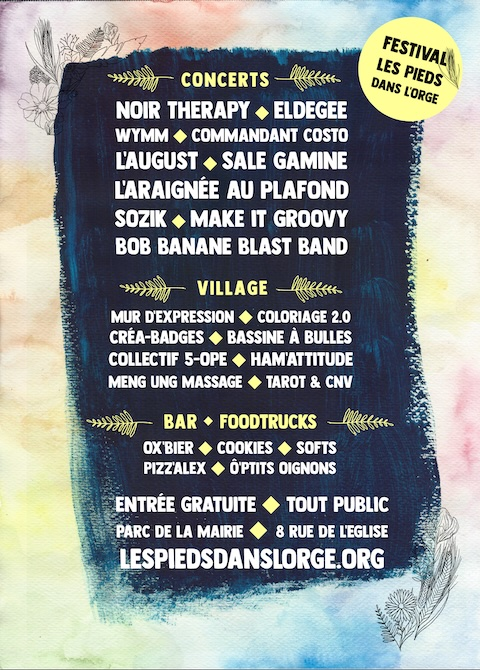
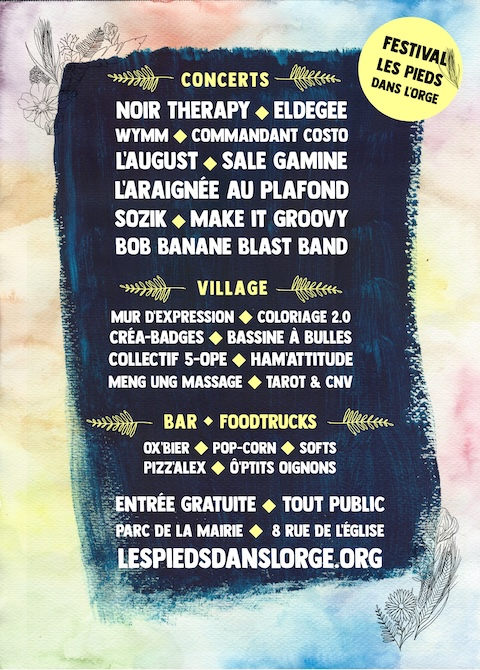
maj 2026

diff --git a/public/index.html b/public/index.html
@@ -16,7 +16,7 @@
     <meta property="og:image" content="https://lespiedsdanslorge.org/img/affiches/2026/affiche-recto.jpg">
     <link rel="stylesheet" href="/library/bootstrap@5.3.8/bootstrap.min.css">
     <link rel="stylesheet" href="/library/glightbox@3.3.0/glightbox.min.css">
-    <link rel="stylesheet" href="/css/app.css?20260503">
+    <link rel="stylesheet" href="/css/app.css?20260511">
 </head>
 
 <body>
@@ -99,13 +99,13 @@
             <h3 id="village">Village</h3>
             <div id="village-content"></div>
 
-            <h3 id="bar-foodtrucks">Bar / Foodtrucks</h3>
-            <ul>
-              <li><strong>BUVETTE</strong> : Bierre Pression (<a href="https://brasserie-ox.fr">Ox’Bier, brasserie artisanale de Marcoussis</a>), Softs au verre, Cookies</li>
-              <li><strong><a href="https://www.facebook.com/opofood">Ô’PTITS OIGNONS</a>:</strong> Burgers frais, street food</li>
-              <li><strong><a href="https://www.camion-pizzalex.fr">Pizz’Alex</a></strong> : Restauration Pizzas</li>
-            </ul>
+            <h3 id="restauration">Restauration</h3>
+            <div id="restauration-content"></div>
 
+        </section>
+
+        <section id="photos">
+            <h2 id="gallery">Photos & Vidéos</h2>
             <div id="gallery-content"></div>
         </section>
 
@@ -129,8 +129,8 @@
             <p>C’est plus long ...</p>
             <h3><span>Plan du site</span></h3>
             <div class="text-center">
-                <a class="glightbox" href="/img/plan-du-site-2026.svg?20260304">
-                  <img class="d-inline-block px-3 py-3 bg-white" src="/img/plan-du-site-2026.svg?20260304" alt="Plan du site 2026" />
+                <a href="/img/plan-du-site-2026.png?20260511">
+                  <img class="d-inline-block px-3 py-3 bg-white" src="/img/plan-du-site-2026.png?20260511" alt="Plan du site 2026" />
                 </a>
             </div>
         </section>
@@ -140,9 +140,10 @@
             <p>Cet événement ne pourrait pas se dérouler sans nos partenaires:</p>
             <ul>
               <li>La <a href="http://www.ville-epinay-sur-orge.fr"><strong>Mairie d’Épinay-sur-Orge</strong></a> bien sur, qui nous prête pour l’occasion ce magnifique lieu connu des spinoliens pour accueillir la fête des Brandous. </li>
-              <li>La <a href="https://www.facebook.com/clubadosPAJ.VSO/"><strong>PAJ de Villemoisson sur Orge</strong></a>, grands organisateurs du <a href="https://fetestival.fr">Fet’Estival</a> depuis plus de 15 ans, et qui nous offrent leur précieuse aide technique et logistique.</li>
+              <li>La <a href="https://www.facebook.com/clubadosPAJ.VSO/"><strong>PAJ de Villemoisson sur Orge</strong></a>, grands organisateurs du <a href="https://fetestival.fr"><strong>Fet’Estival</strong></a> depuis plus de 15 ans, et qui nous offrent leur précieuse aide technique et logistique.</li>
               <li>L’association <a href="https://www.villemoisson-en-fete.com"><strong>Villemoisson En Fête</strong></a>, pour le soutien logistique</li>
               <li>La <a href="https://www.mjcvillebon.org"><strong>MJC Boby Lapointe</strong></a> de Villebon-sur-Yvette qui soutient nos actions depuis près de 5 ans</li>
+              <li><a href="https://www.lavilledubois.fr"><strong>La Ville du Bois</strong></a> et l’association <a href="https://www.lavilledubois.fr/liste-des-associations/87-culture/149"><strong>Music’All du Bois</strong></a></li>
             </ul>
         </section>
 
@@ -177,7 +178,7 @@
     <script src="/library/jquery@3.7.1/jquery.min.js"></script>
     <script src="/library/glightbox@3.3.0/glightbox.min.js"></script>
     <script src="/library/bootstrap@5.3.8/bootstrap.bundle.min.js"></script>
-    <script src="/js/app.mjs?20260503" type="module"></script>
+    <script src="/js/app.mjs?20260511" type="module"></script>
 </body>
 
 </html>

diff --git a/public/css/app.css b/public/css/app.css
@@ -29,6 +29,10 @@ body {
     padding-top: 2rem; /* taille du header fixe */
 }
 
+a {
+    color: var(--color-medium-blue);
+}
+
 /**
  * Barre du haut + menu
  */
